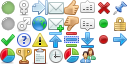
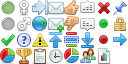
! And another thing moved to the sprite

Changed region(s): [[0.75, 0.75, 0.875, 1.0]]

diff --git a/Themes/default/css/index.css b/Themes/default/css/index.css
@@ -3066,7 +3066,9 @@ tr.windowbg td, tr.windowbg2 td, tr.approvebg td, tr.highlight2 td {
 .generic_icons.old {
 	background-position: -96px -32px;
 }
-/* space reserved for 7 over, 4 down in the image */
+.generic_icons.poll {
+	background-position: -96px -48px;
+}
 .generic_icons.sticky {
 	background-position: -112px 0;
 }

diff --git a/Themes/default/MessageIndex.template.php b/Themes/default/MessageIndex.template.php
@@ -396,7 +396,7 @@ function template_topic_legend()
 		echo '
 			<p class="floatleft">', !empty($modSettings['enableParticipation']) && $context['user']['is_logged'] ? '
 				<img src="' . $settings['images_url'] . '/icons/profile_sm.png" alt="" class="centericon" /> ' . $txt['participation_caption'] . '<br />' : '', '
-				'. ($modSettings['pollMode'] == '1' ? '<img src="' . $settings['images_url'] . '/topic/normal_poll.png" alt="" class="centericon" /> ' . $txt['poll'] : '') . '<br />
+				'. ($modSettings['pollMode'] == '1' ? '<span class="generic_icons poll centericon"></span> ' . $txt['poll'] : '') . '<br />
 				<img src="' . $settings['images_url'] . '/post/moved.png" alt="" class="centericon sizefix" /> ' . $txt['moved_topic'] . '<br />
 			</p>
 			<p>
